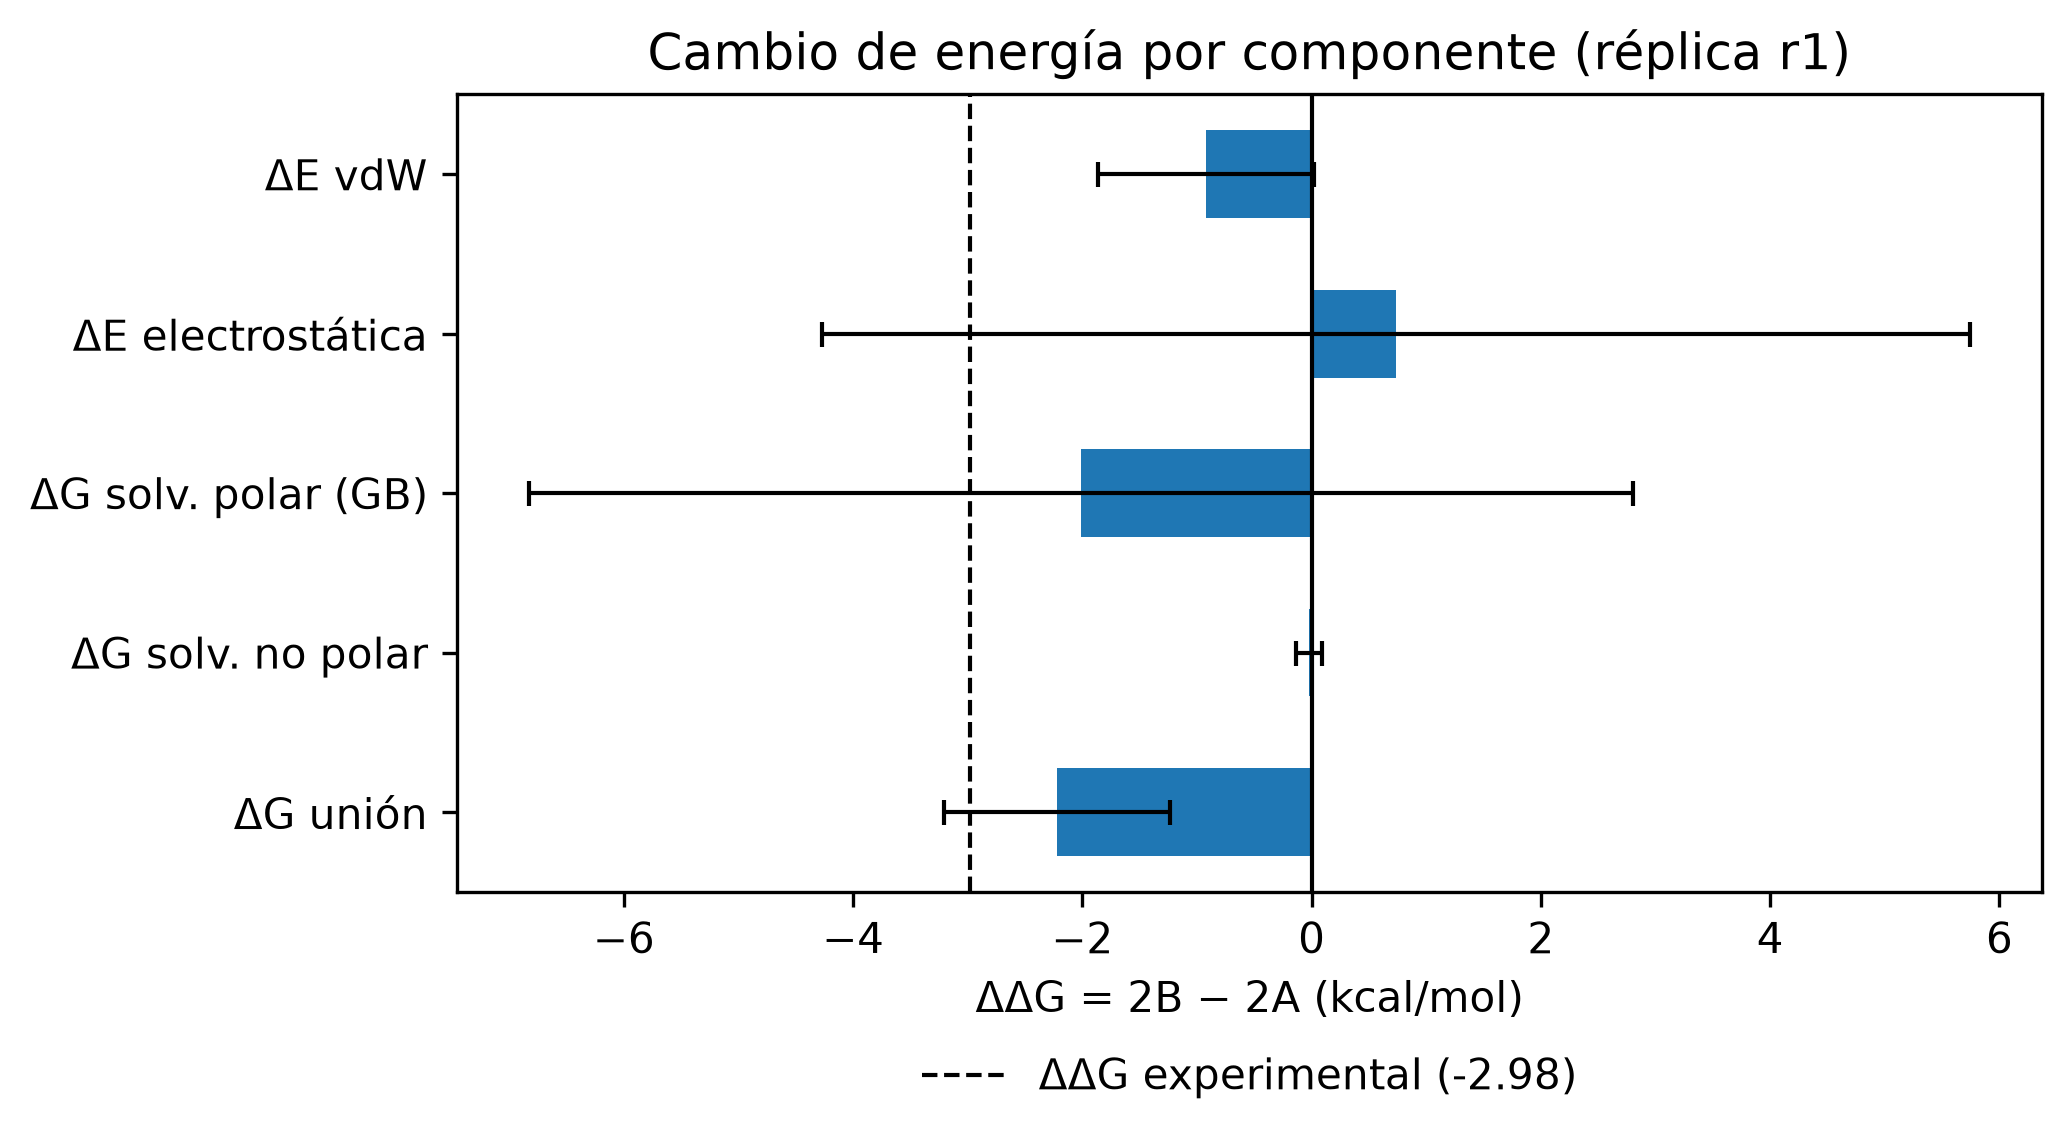
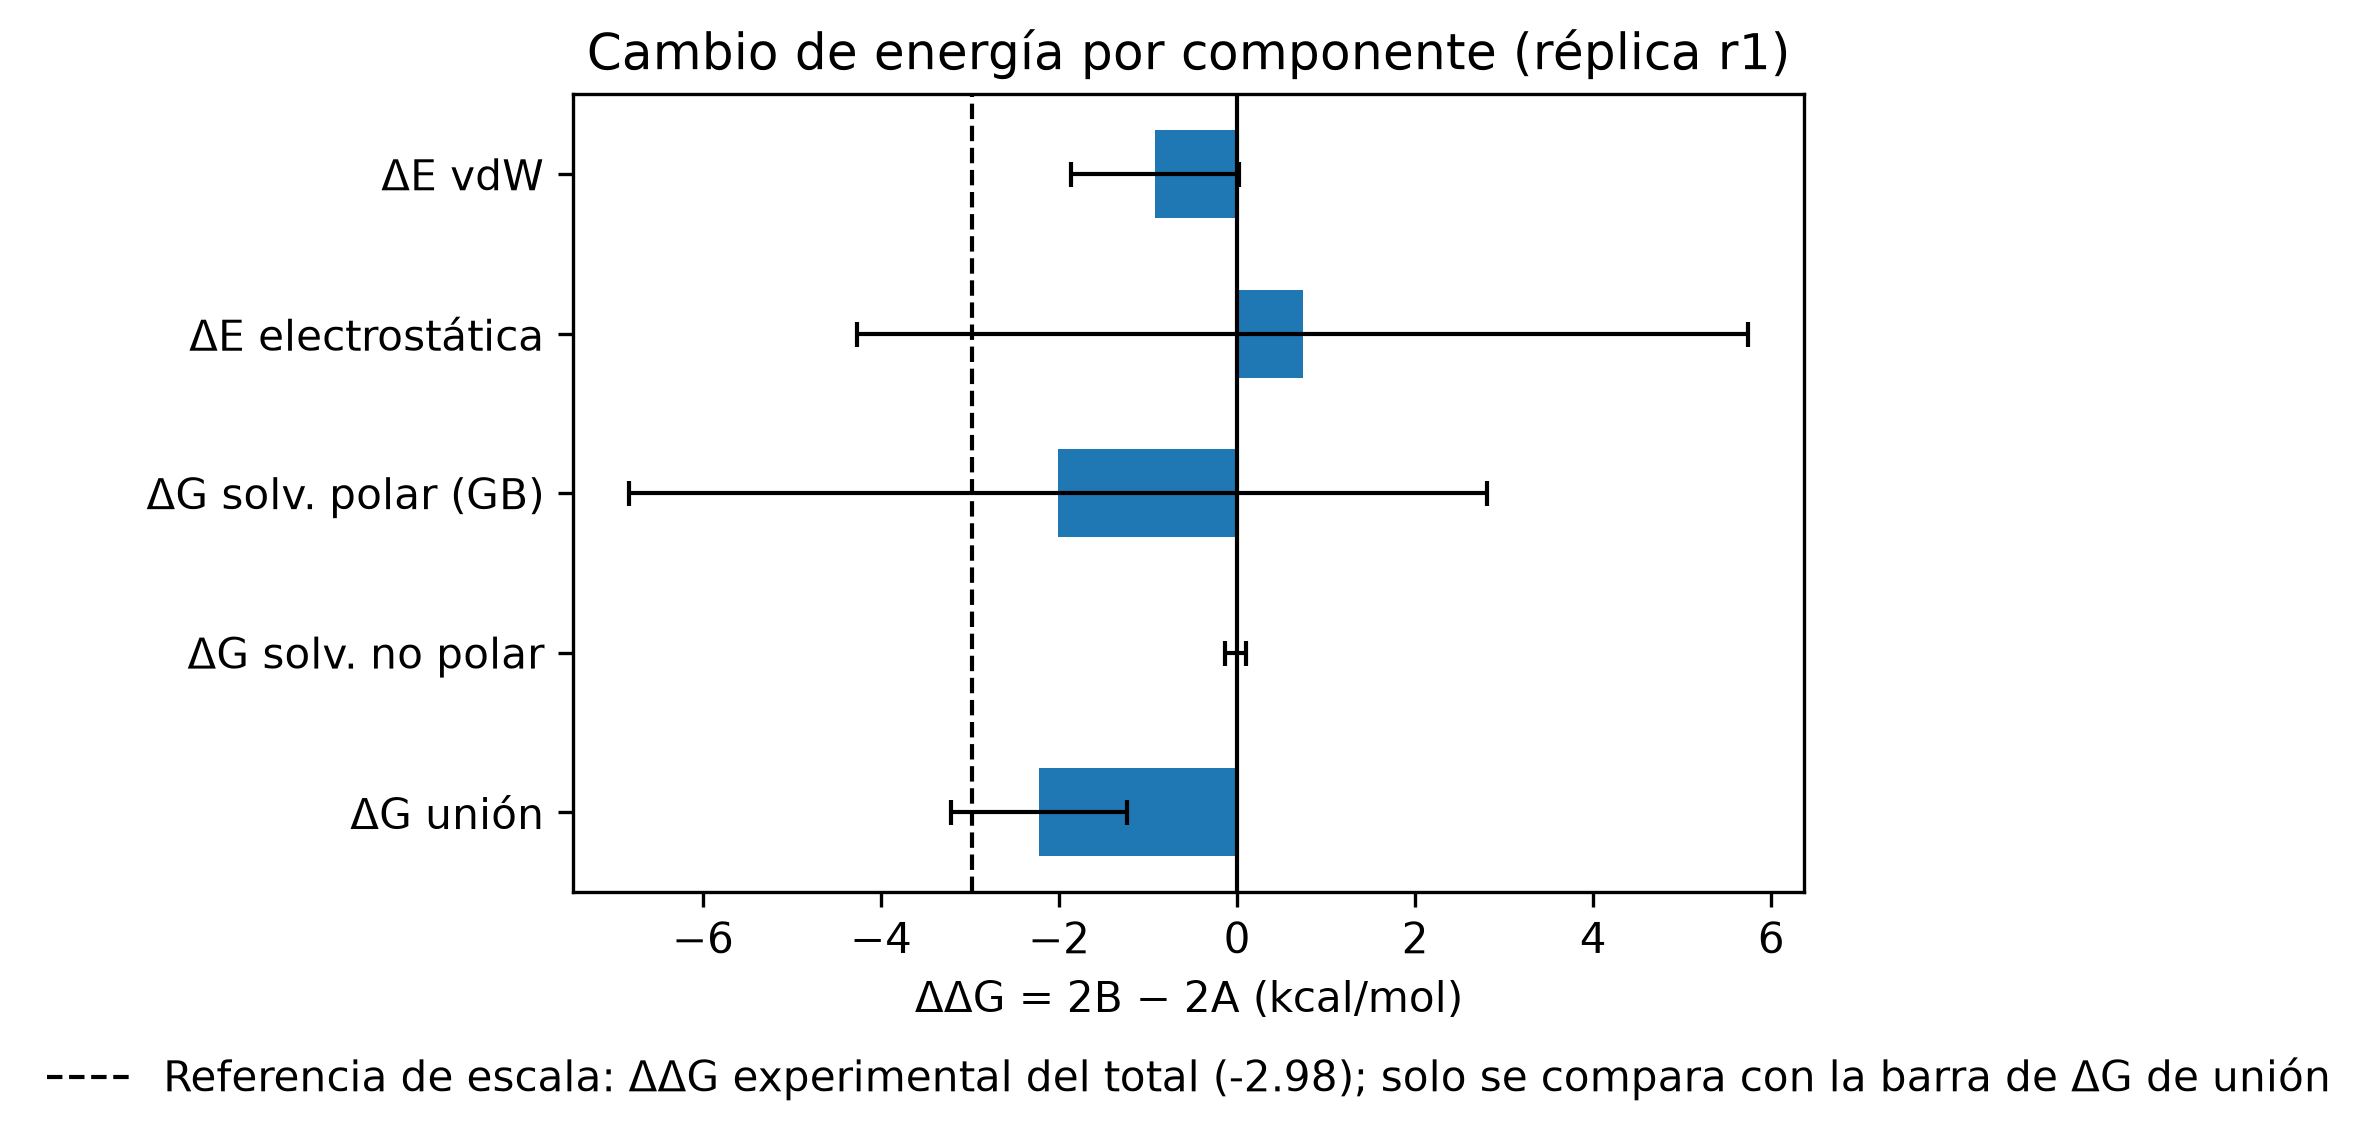
Clarify that the experimental line is a scale reference only for the total bar

diff --git a/scripts/figuras_componentes.py b/scripts/figuras_componentes.py
@@ -65,7 +65,7 @@ for n, k in terminos:
 fig, ax = nueva(7, 4.2)
 ax.barh(nombres[::-1], dd[::-1], xerr=err[::-1], color=AZUL, height=0.55, capsize=3, error_kw=dict(lw=1))
 ax.axvline(0, color="k", lw=1)
-ax.axvline(DDG_EXP, color="k", ls="--", lw=1, label=f"ΔΔG experimental ({DDG_EXP})")
+ax.axvline(DDG_EXP, color="k", ls="--", lw=1, label=f"Referencia de escala: ΔΔG experimental del total ({DDG_EXP}); solo se compara con la barra de ΔG de unión")
 leyenda_abajo(ax, ncol=1)
 ax.set(xlabel="ΔΔ = 2B − 2A (kcal/mol), media de 3 réplicas ± error entre réplicas",
        title="Cambio de energía por componente (3 réplicas)")
@@ -111,7 +111,7 @@ for n, k in terminos:
 fig, ax = nueva(7, 4.2)
 ax.barh(nom1[::-1], dd1[::-1], xerr=er1[::-1], color=AZUL, height=0.55, capsize=3, error_kw=dict(lw=1))
 ax.axvline(0, color="k", lw=1)
-ax.axvline(DDG_EXP, color="k", ls="--", lw=1, label=f"ΔΔG experimental ({DDG_EXP})")
+ax.axvline(DDG_EXP, color="k", ls="--", lw=1, label=f"Referencia de escala: ΔΔG experimental del total ({DDG_EXP}); solo se compara con la barra de ΔG de unión")
 leyenda_abajo(ax, ncol=1)
 ax.set(xlabel="ΔΔ = 2B − 2A (kcal/mol), réplica r1 ± error por bloques de la trayectoria",
        title="Cambio de energía por componente (réplica r1)")

diff --git a/scripts/analisis_energia.py b/scripts/analisis_energia.py
@@ -103,7 +103,7 @@ fig, ax = nueva(7, 4)
 p = g[g.termino.isin(["ΔE vdW", "ΔE electrostática", "ΔG solv. polar (GB)", "ΔG solv. no polar", "ΔG unión"])][::-1]
 ax.barh(p.termino, p.ddG, xerr=p.ddG_sem, color=AZUL, height=0.55, capsize=3, error_kw=dict(lw=1))
 ax.axvline(0, color="k", lw=1)
-ax.axvline(DDG_EXP, color="k", ls="--", lw=1, label=f"ΔΔG experimental ({DDG_EXP})")
+ax.axvline(DDG_EXP, color="k", ls="--", lw=1, label=f"Referencia de escala: ΔΔG experimental del total ({DDG_EXP}); solo se compara con la barra de ΔG de unión")
 leyenda_abajo(ax, ncol=1)
 ax.set(xlabel="ΔΔG = 2B − 2A (kcal/mol)", title="Cambio de energía por componente (réplica r1)")
 guardar(fig, FIG / "D_componentes_ddg.png")
